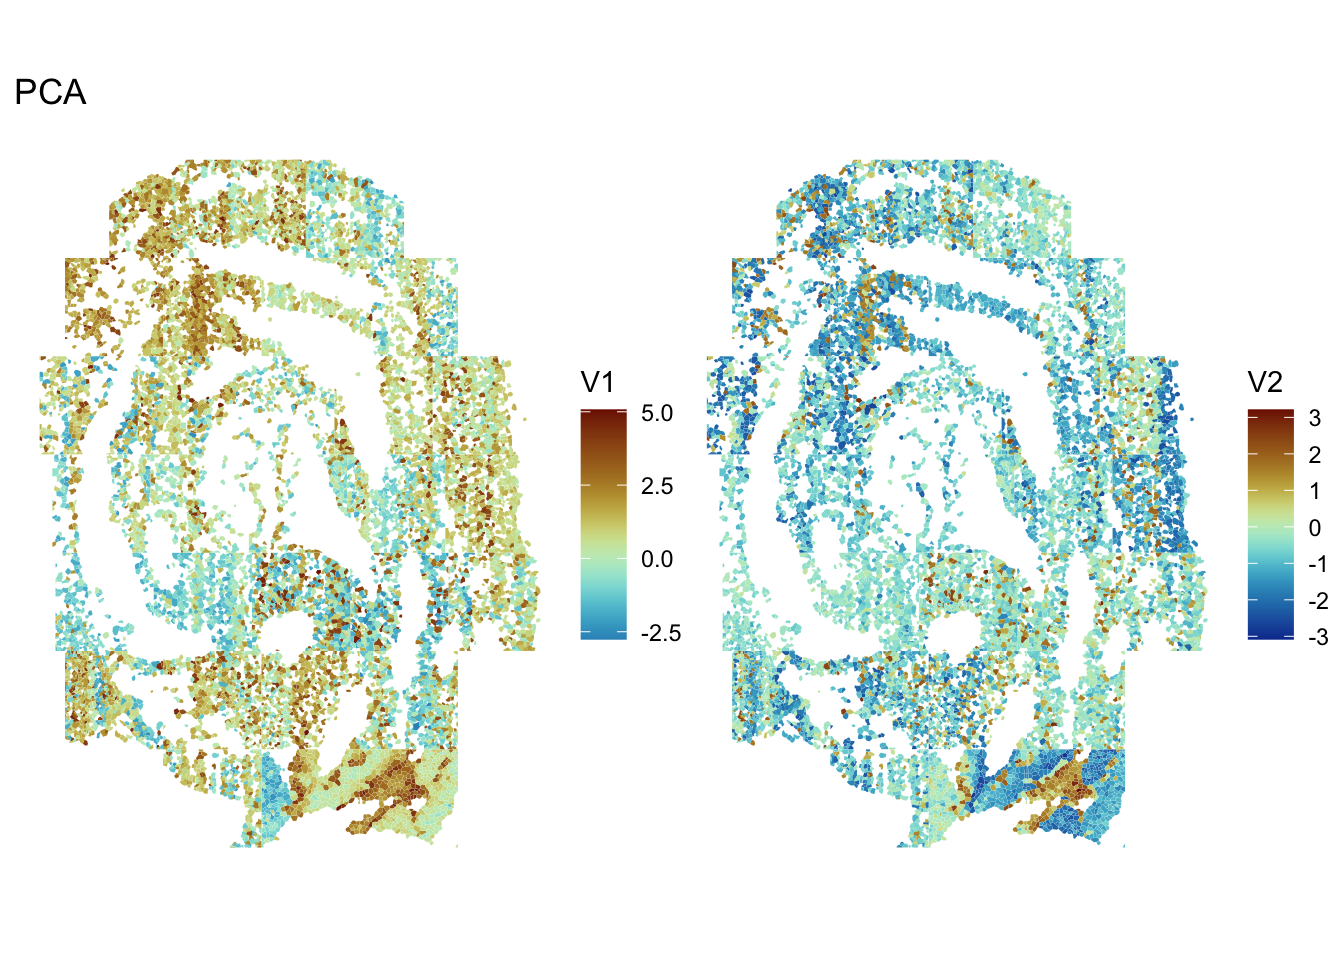
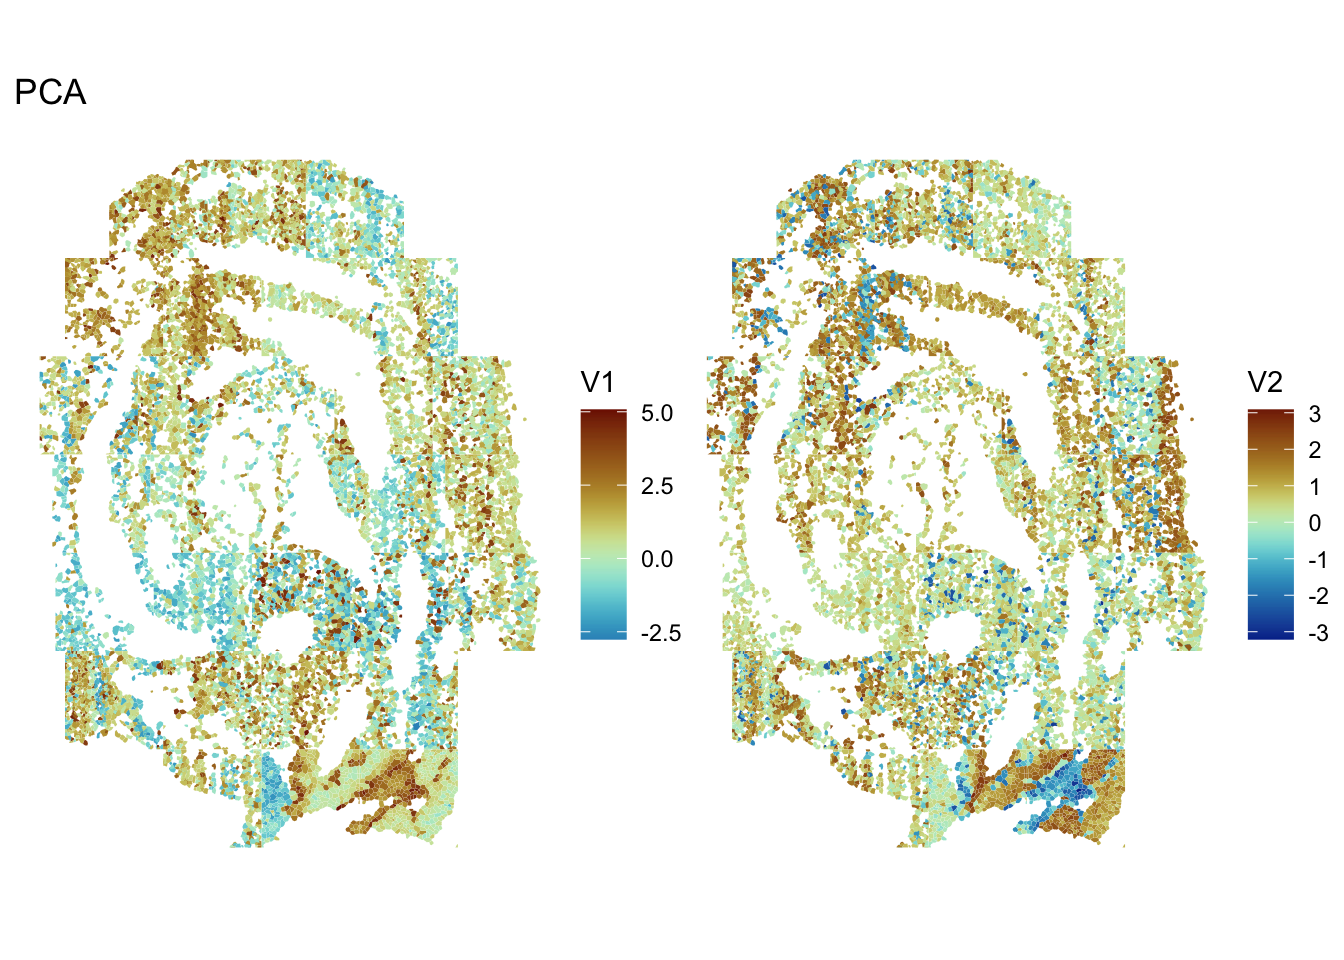
Built site for gh-pages

Changed region(s): [[0.5, 0.1562, 0.9062, 0.9062], [0.9688, 0.625, 1.0, 0.6875], [0.9688, 0.5312, 1.0, 0.5625]]

diff --git a/notebooks/seqfish_workflow.html b/notebooks/seqfish_workflow.html
@@ -645,7 +645,7 @@ window.Quarto = {
 <span id="cb18-2"><a href="#cb18-2" aria-hidden="true" tabindex="-1"></a>g2 <span class="ot">&lt;-</span> <span class="fu">as.numeric</span>(<span class="fu">colData</span>(sfe)<span class="sc">$</span>celltype_mapped_refined)</span>
 <span id="cb18-3"><a href="#cb18-3" aria-hidden="true" tabindex="-1"></a></span>
 <span id="cb18-4"><a href="#cb18-4" aria-hidden="true" tabindex="-1"></a><span class="fu">rand.index</span>(g1, g2)</span>
-<span id="cb18-5"><a href="#cb18-5" aria-hidden="true" tabindex="-1"></a><span class="co">#&gt; [1] 0.8359582</span></span></code></pre></div><button title="Copy to Clipboard" class="code-copy-button"><i class="bi"></i></button></div>
+<span id="cb18-5"><a href="#cb18-5" aria-hidden="true" tabindex="-1"></a><span class="co">#&gt; [1] 0.8500229</span></span></code></pre></div><button title="Copy to Clipboard" class="code-copy-button"><i class="bi"></i></button></div>
 </div>
 <p>The relatively large Rand index suggests that cells are often found in the same cluster in both cases.</p>
 </section>

diff --git a/index.html b/index.html
@@ -6,6 +6,7 @@
 
 <meta name="viewport" content="width=device-width, initial-scale=1.0, user-scalable=yes">
 
+<meta name="description" content="Step-by-step bioinformatics tutorials from the Caltech Bioinformatics Resource Center (CBRC) for processing and analyzing omics data, including single-cell RNA-seq, bulk RNA-seq, spatial transcriptomics, and seqspec.">
 
 <title>Welcome to CBRC Tutorials! – CBRC Tutorials</title>
 <style>
@@ -236,6 +237,11 @@ ul.task-list li input[type="checkbox"] {
 <h1 class="title">Welcome to CBRC Tutorials!</h1>
 </div>
 
+<div>
+  <div class="description">
+    Step-by-step bioinformatics tutorials from the Caltech Bioinformatics Resource Center (CBRC) for processing and analyzing omics data, including single-cell RNA-seq, bulk RNA-seq, spatial transcriptomics, and seqspec.
+  </div>
+</div>
 
 
 <div class="quarto-title-meta">

diff --git a/styles.css b/styles.css
@@ -541,3 +541,8 @@ details[open] {
   width: 48px;
   margin-bottom: 0.5rem;
 }
+
+/* Keep page descriptions in <meta> for search engines, but hide them from the title block */
+#title-block-header .description {
+  display: none;
+}
